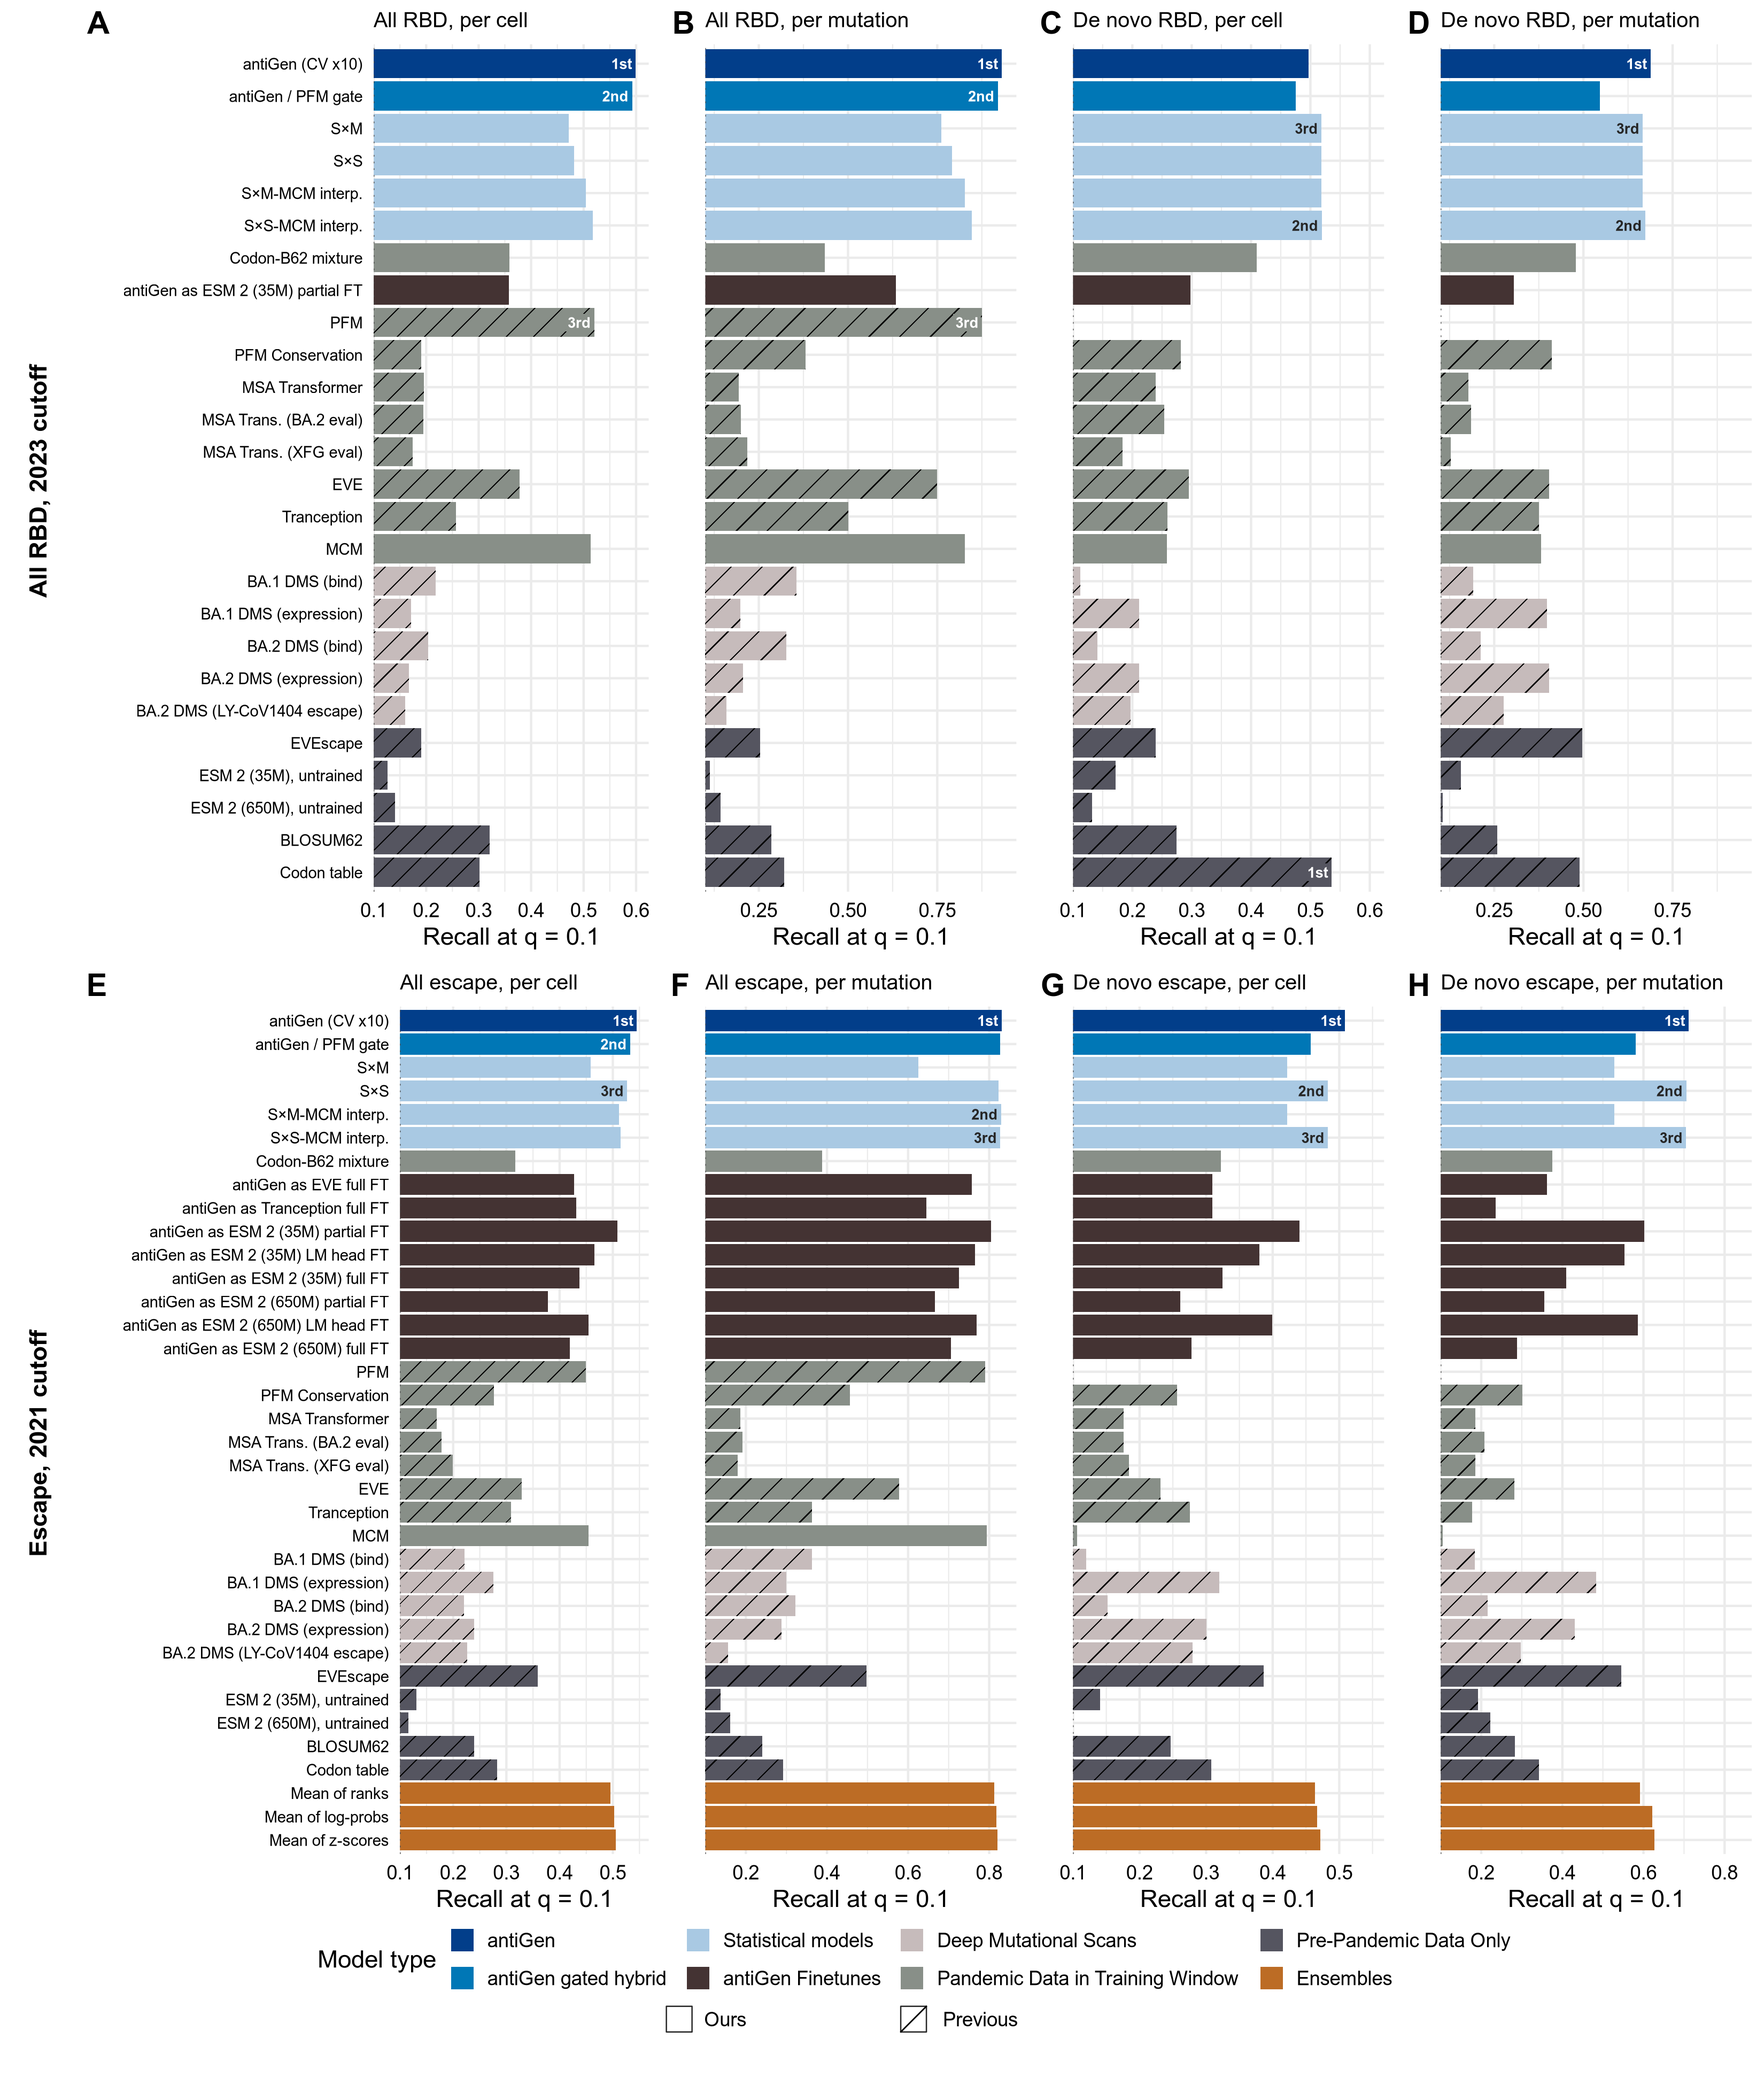
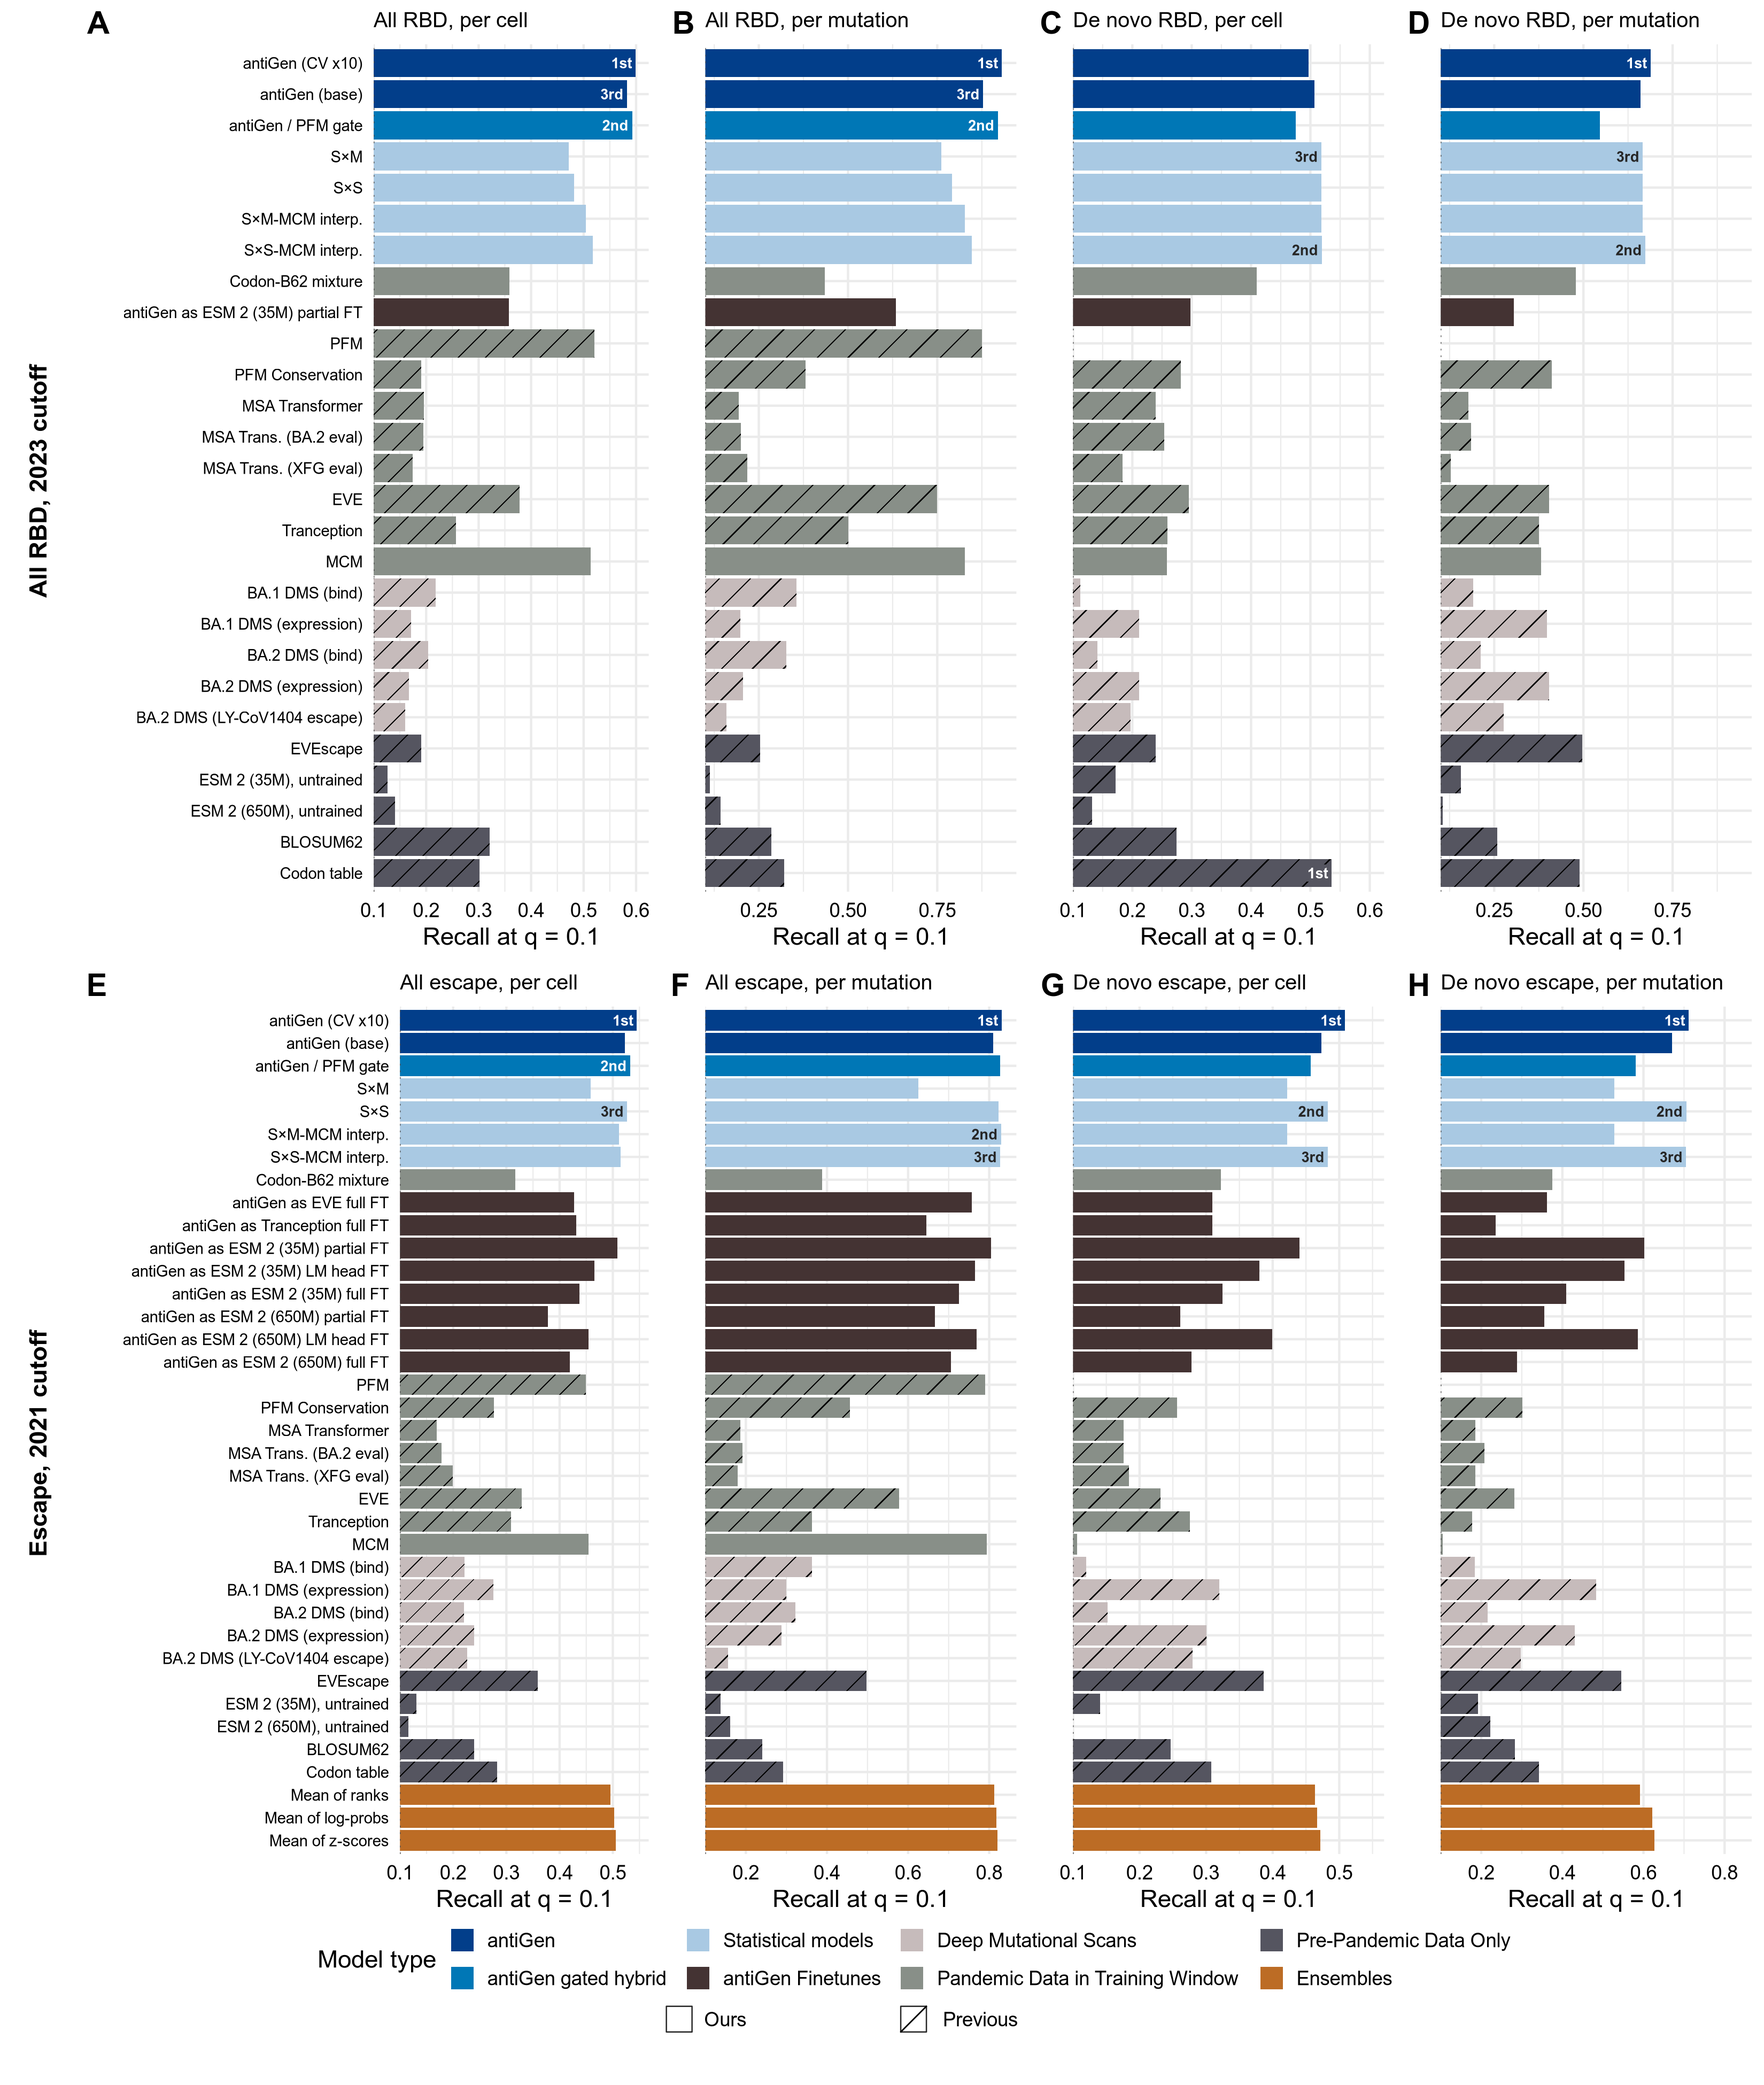
revised2 supp: base antiGen beside the CV x10 bar (s143)

diff --git a/experiments/multitree/NOTES.md b/experiments/multitree/NOTES.md
@@ -13076,3 +13076,10 @@ all/de novo partner, so the all-cells panels inherited de novo's 0-40 when their
 bars end near 12. Each `bg_bar_top` call now passes its own metric alone, so every
 panel's range covers its own bars and 95% intervals, plus the drawer's 5% padding.
 Only this supplement's panels change.
+
+## 143. Base antiGen on the full-roster supplement (2026-11-09)
+
+On request, `sc2_results_revised2_supp` draws base antiGen (`simple_d128_n2_lr0.0001`)
+beside the CV x10 bar, in the antiGen type and unhatched, labelled "antiGen (base)" as
+on panel M. It is dropped only when `REVISED2_FULL` is unset, so the main figure is
+unchanged. Bar order: CV x10, base, then the gate.
